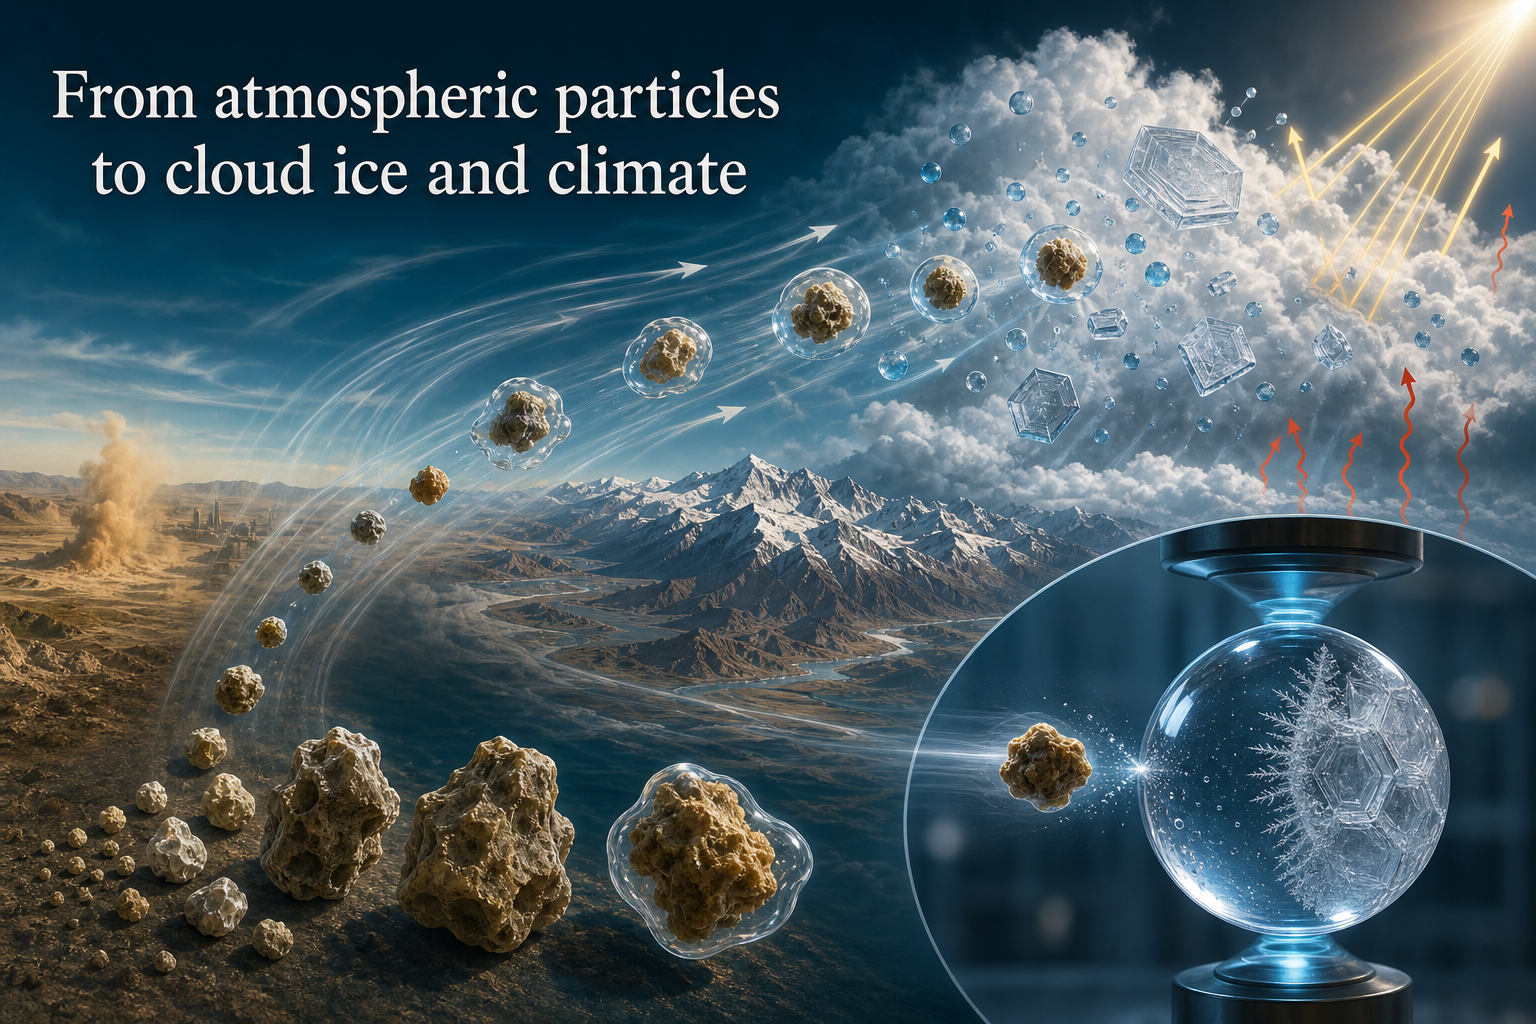
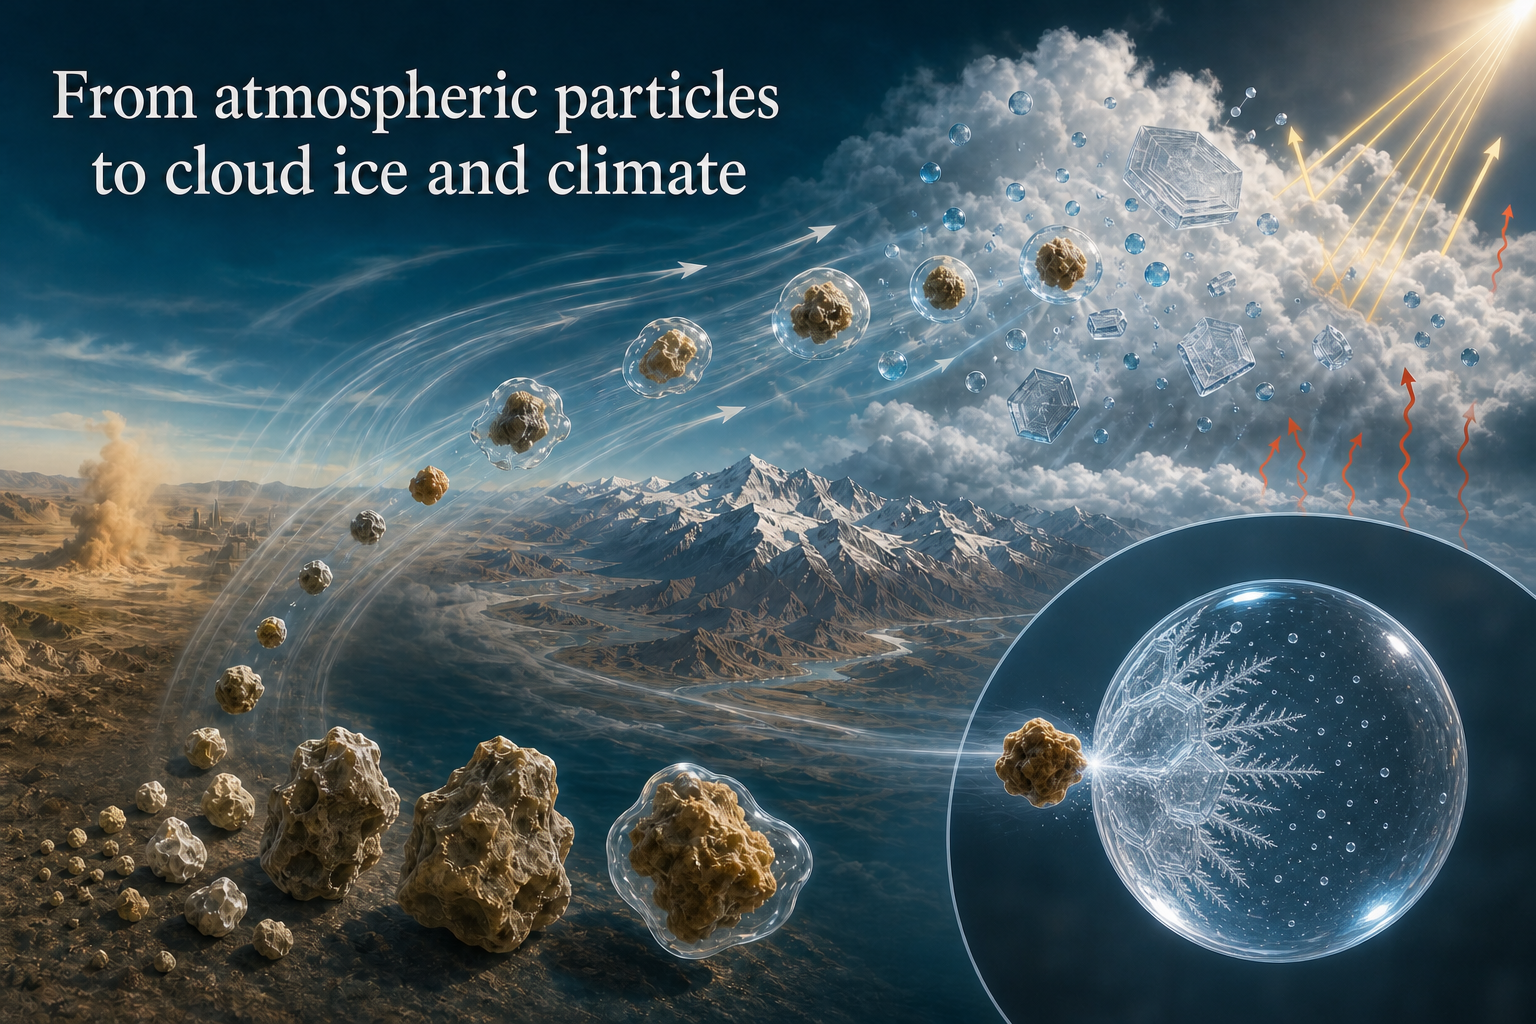
Refine overview graphic and publication metadata

diff --git a/app/page.tsx b/app/page.tsx
@@ -88,24 +88,24 @@ const papers = [
 ];
 
 const fullPublications = [
-  ['2026', 'Cold-stage system for Impact-initiated Contact freezing Experiments (C-ICE)', 'EGUsphere preprint', '10.5194/egusphere-2026-3946'],
-  ['2026', 'Effects of the Biosurfactant Rhamnolipid on the hygroscopicity and cloud condensation nuclei activity (CCN) of ammonium sulfate aerosols', 'Atmospheric Research', '10.1016/j.atmosres.2026.108950'],
-  ['2026', 'Relative Humidity Constrains the Saturated Oxidation Capacity of Sulfate Formation', 'Environmental Science & Technology Letters', '10.1021/acs.estlett.6c00077'],
-  ['2024', 'Decreased dust particles amplify the cloud cooling effect by regulating cloud ice formation over the Tibetan Plateau', 'Science Advances', '10.1126/sciadv.ado0885'],
-  ['2024', 'Observational Evidence of Brown Carbon Photobleaching in Urban Atmosphere at Molecular Level', 'Environmental Science & Technology Letters', '10.1021/acs.estlett.4c00647'],
-  ['2024', 'Particle phase state and aerosol liquid water greatly impact secondary aerosol formation: insights into phase transition and its role in haze events', 'Atmospheric Chemistry and Physics', '10.5194/acp-24-2399-2024'],
-  ['2023', 'Effects of heterogeneous reaction with NO₂ on ice nucleation activities of feldspar and Arizona Test Dust', 'Journal of Environmental Sciences', '10.1016/j.jes.2022.04.034'],
-  ['2023', 'Observational evidence for the non-suppression effect of atmospheric chemical modification on the ice nucleation activity of East Asian dust', 'Science of the Total Environment', '10.1016/j.scitotenv.2022.160708'],
-  ['2023', 'Secondary aerosol formation drives atmospheric particulate matter pollution over megacities (Beijing and Seoul) in East Asia', 'Atmospheric Environment', '10.1016/j.atmosenv.2023.119702'],
-  ['2022', 'Chemical characteristics and sources of organic aerosols across the Taiwan Strait', 'Atmospheric Pollution Research', '10.1016/j.apr.2021.101312'],
-  ['2022', 'Ice-nucleating particles from multiple aerosol sources in the urban environment of Beijing under mixed-phase cloud conditions', 'Atmospheric Chemistry and Physics', '10.5194/acp-22-7539-2022'],
-  ['2021', 'Atmospheric Humic-Like Substances (HULIS) Act as Ice Active Entities', 'Geophysical Research Letters', '10.1029/2021GL092443'],
-  ['2021', 'Ice Nucleating Particles in the Atmosphere—Progress and Challenges', 'Chinese Journal of Atmospheric Sciences', '10.3878/j.issn.1006-9895.2010.20121'],
-  ['2021', 'Ice-Nucleating Particle Concentrations and Sources in Rainwater Over the Third Pole, Tibetan Plateau', 'Journal of Geophysical Research: Atmospheres', '10.1029/2020JD033864'],
-  ['2021', 'Impact of aerosol–radiation interaction on new particle formation', 'Atmospheric Chemistry and Physics', '10.5194/acp-21-9995-2021'],
-  ['2021', 'Size-resolved atmospheric ice-nucleating particles during East Asian dust events', 'Atmospheric Chemistry and Physics', '10.5194/acp-21-3491-2021'],
-  ['2021', 'The particle phase state during the biomass burning events', 'Science of the Total Environment', '10.1016/j.scitotenv.2021.148035'],
-  ['2018', 'Development, Characterization, and Validation of a Cold Stage-Based Ice Nucleation Array (PKU-INA)', 'Atmosphere', '10.3390/atmos9090357'],
+  ['2026', 'Cold-stage system for Impact-initiated Contact freezing Experiments (C-ICE)', 'EGUsphere preprint', '10.5194/egusphere-2026-3946', 'Jingchuan Chen; Upasna B. Rai; Kyle A. McMillan; Ryan D. Davis; Margaret A. Tolbert; Sarah D. Brooks'],
+  ['2026', 'Effects of the Biosurfactant Rhamnolipid on the hygroscopicity and cloud condensation nuclei activity (CCN) of ammonium sulfate aerosols', 'Atmospheric Research', '10.1016/j.atmosres.2026.108950', 'Wenxu Fang; Zhijun Wu; Taomou Zong; Yanting Qiu; Xiangxinyue Meng; Jingchuan Chen; Zeyu Feng; Junrui Wang; Linghan Zeng; Zheng Chen; Zirui Zhang; Yu Xie; Song Guo; Maosheng Yao; Min Hu'],
+  ['2026', 'Relative Humidity Constrains the Saturated Oxidation Capacity of Sulfate Formation', 'Environmental Science & Technology Letters', '10.1021/acs.estlett.6c00077', 'Taomou Zong; Zhijun Wu; Ye Kuang; Mengren Li; Nan Xu; Shuya Hu; Yanhong Qin; Zhuofei Du; Jing Zheng; Dongjie Shang; Yujue Wang; Fangting Gu; Yu Wang; Tianyi Tan; Yuechen Liu; Kai Qiao; Xiao Li; Xin Fang; Yao Xiao; Rongzhi Tang; Jie Chen; Yao Bai; Weizhao Xu; Hui Wang; Tiantian Wang; Yishu Zhu; Zirui Zhang; Ruizhe Shen; Jingchuan Chen; Xiangxinyue Meng; Shiyi Chen; Huabin Dong; Song Guo; Min Hu'],
+  ['2024', 'Decreased dust particles amplify the cloud cooling effect by regulating cloud ice formation over the Tibetan Plateau', 'Science Advances', '10.1126/sciadv.ado0885', 'Jingchuan Chen; Jianzhong Xu; Zhijun Wu; Xiangxinyue Meng; Yan Yu; Paul Ginoux; Paul J. DeMott; Rui Xu; Lixiang Zhai; Yafei Yan; Chuanfeng Zhao; Shao-Meng Li; Tong Zhu; Min Hu'],
+  ['2024', 'Observational Evidence of Brown Carbon Photobleaching in Urban Atmosphere at Molecular Level', 'Environmental Science & Technology Letters', '10.1021/acs.estlett.4c00647', 'Yanting Qiu; Tao Qiu; Zhijun Wu; Yanna Liu; Wenxu Fang; Ruiqi Man; Yuechen Liu; Junrui Wang; Xiangxinyue Meng; Jingchuan Chen; Dapeng Liang; Song Guo; Min Hu'],
+  ['2024', 'Particle phase state and aerosol liquid water greatly impact secondary aerosol formation: insights into phase transition and its role in haze events', 'Atmospheric Chemistry and Physics', '10.5194/acp-24-2399-2024', 'Xiangxinyue Meng; Zhijun Wu; Jingchuan Chen; Yanting Qiu; Taomou Zong; Mijung Song; Jiyi Lee; Min Hu'],
+  ['2023', 'Effects of heterogeneous reaction with NO₂ on ice nucleation activities of feldspar and Arizona Test Dust', 'Journal of Environmental Sciences', '10.1016/j.jes.2022.04.034', 'Lanxiadi Chen; Chao Peng; Jingchuan Chen; Jie Chen; Wenjun Gu; Xiaohong Jia; Zhijun Wu; Qiyuan Wang; Mingjin Tang'],
+  ['2023', 'Observational evidence for the non-suppression effect of atmospheric chemical modification on the ice nucleation activity of East Asian dust', 'Science of the Total Environment', '10.1016/j.scitotenv.2022.160708', 'Jingchuan Chen; Zhijun Wu; Xiangxinyue Meng; Cuiqi Zhang; Jie Chen; Yanting Qiu; Li Chen; Xin Fang; Yuanyuan Wang; Yinxiao Zhang; Shiyi Chen; Jian Gao; Weijun Li; Min Hu'],
+  ['2023', 'Secondary aerosol formation drives atmospheric particulate matter pollution over megacities (Beijing and Seoul) in East Asia', 'Atmospheric Environment', '10.1016/j.atmosenv.2023.119702', 'Yanting Qiu; Zhijun Wu; Ruiqi Man; Taomou Zong; Yuechen Liu; Xiangxinyue Meng; Jingchuan Chen; Shiyi Chen; Suxia Yang; Bin Yuan; Mijung Song; Changhyuk Kim; Junyoung Ahn; Limin Zeng; Jiyi Lee; Min Hu'],
+  ['2022', 'Chemical characteristics and sources of organic aerosols across the Taiwan Strait', 'Atmospheric Pollution Research', '10.1016/j.apr.2021.101312', 'Nan Xu; Min Hu; Zirui Zhang; Xiao Li; Shuya Hu; Jingchuan Chen; Zijing Zhang; Rongzhi Tang; Limin Zeng; Feng Chen; Zhifan Jin; Fang Yang; Haowu Lin; Jinsheng Chen; Yanting Chen; Mengren Li; Ronghua Zheng; Chung-Te Lee; Sheng-Hsiang Wang; Chia-Wei Lee; Chung-Shin Yuan; Chang-Tang Chang; Ken-Hui Chang; Yuanhang Zhang'],
+  ['2022', 'Ice-nucleating particles from multiple aerosol sources in the urban environment of Beijing under mixed-phase cloud conditions', 'Atmospheric Chemistry and Physics', '10.5194/acp-22-7539-2022', 'Cuiqi Zhang; Zhijun Wu; Jingchuan Chen; Jie Chen; Lizi Tang; Wenfei Zhu; Xiangyu Pei; Shiyi Chen; Ping Tian; Song Guo; Limin Zeng; Min Hu; Zamin A. Kanji'],
+  ['2021', 'Atmospheric Humic-Like Substances (HULIS) Act as Ice Active Entities', 'Geophysical Research Letters', '10.1029/2021GL092443', 'Jingchuan Chen; Zhijun Wu; Xin Zhao; Yujing Wang; Jie Chen; Yanting Qiu; Taomou Zong; Haoxuan Chen; Beibei Wang; Peng Lin; Wei Liu; Song Guo; Maosheng Yao; Limin Zeng; Heike Wex; Xiaohong Liu; Min Hu; Shao-Meng Li'],
+  ['2021', 'Ice Nucleating Particles in the Atmosphere—Progress and Challenges', 'Chinese Journal of Atmospheric Sciences', '10.3878/j.issn.1006-9895.2010.20121', 'Zhijun Wu; Jie Chen; Jingchuan Chen; Wenjun Gu; Mingjin Tang; Dianping Ding; Yan Yin; Min Hu'],
+  ['2021', 'Ice-Nucleating Particle Concentrations and Sources in Rainwater Over the Third Pole, Tibetan Plateau', 'Journal of Geophysical Research: Atmospheres', '10.1029/2020JD033864', 'Jingchuan Chen; Zhijun Wu; Guangming Wu; Xiaodong Gong; Feng Wang; Jie Chen; Guoliang Shi; Min Hu; Zhiyuan Cong'],
+  ['2021', 'Impact of aerosol–radiation interaction on new particle formation', 'Atmospheric Chemistry and Physics', '10.5194/acp-21-9995-2021', 'Gang Zhao; Yishu Zhu; Zhijun Wu; Taomou Zong; Jingchuan Chen; Tianyi Tan; Haichao Wang; Xin Fang; Keding Lu; Chunsheng Zhao; Min Hu'],
+  ['2021', 'Size-resolved atmospheric ice-nucleating particles during East Asian dust events', 'Atmospheric Chemistry and Physics', '10.5194/acp-21-3491-2021', 'Jingchuan Chen; Zhijun Wu; Jie Chen; Naama Reicher; Xin Fang; Yinon Rudich; Min Hu'],
+  ['2021', 'The particle phase state during the biomass burning events', 'Science of the Total Environment', '10.1016/j.scitotenv.2021.148035', 'Yuechen Liu; Xiangxinyue Meng; Zhijun Wu; Dandan Huang; Hongli Wang; Jie Chen; Jingchuan Chen; Taomou Zong; Xin Fang; Tianyi Tan; Gang Zhao; Shiyi Chen; Liwu Zeng; Song Guo; Xiaofeng Huang; Lingyan He; Limin Zeng; Min Hu'],
+  ['2018', 'Development, Characterization, and Validation of a Cold Stage-Based Ice Nucleation Array (PKU-INA)', 'Atmosphere', '10.3390/atmos9090357', 'Jie Chen; Xiangyu Pei; Hong Wang; Jingchuan Chen; Yishu Zhu; Mingjin Tang; Zhijun Wu'],
 ];
 
 const news = [
@@ -205,9 +205,9 @@ export default function Home() {
           <details className="all-publications">
             <summary>{zh ? '发表论文完整列表' : 'Complete publication list'} <span>+</span></summary>
             <div className="full-paper-list">
-              {fullPublications.map(([year, title, journal, doi], index) => (
+              {fullPublications.map(([year, title, journal, doi, authors]) => (
                 <a href={`https://doi.org/${doi}`} target="_blank" rel="noreferrer" key={doi}>
-                  <span>{year}</span><div><b>{index === 0 ? title : title}</b><small>{journal}</small></div><ArrowUpRight size={15} />
+                  <span>{year}</span><div><b>{title}</b><p className="full-authors">{authors.split('; ').map((author, index) => <span key={`${doi}-${author}`}>{author === 'Jingchuan Chen' ? <strong>{author}</strong> : author}{index < authors.split('; ').length - 1 ? '; ' : ''}</span>)}</p><small>{journal}</small></div><ArrowUpRight size={15} />
                 </a>
               ))}
             </div>

diff --git a/app/globals.css b/app/globals.css
@@ -154,9 +154,9 @@ footer { display: flex; justify-content: space-between; gap: 20px; padding: 25px
   footer { flex-direction: column; }
 }
 
-.overview-figure { margin: 0; padding: 100px clamp(24px, 7vw, 112px); background: #0b2a35; color: white; }
-.overview-figure img { display: block; width: 100%; max-width: 1400px; margin: 0 auto; border: 1px solid #31515b; box-shadow: 0 28px 80px rgba(0,0,0,.22); }
-.overview-figure figcaption { display: grid; grid-template-columns: 180px minmax(0, 740px); gap: 28px; max-width: 1400px; margin: 24px auto 0; color: #b6cacc; font-size: 13px; line-height: 1.65; }
+.overview-figure { margin: 0; padding: 72px clamp(24px, 7vw, 112px); background: #0b2a35; color: white; }
+.overview-figure img { display: block; width: auto; max-width: min(100%, 1120px); max-height: 68vh; margin: 0 auto; border: 1px solid #31515b; box-shadow: 0 28px 80px rgba(0,0,0,.22); object-fit: contain; }
+.overview-figure figcaption { display: grid; grid-template-columns: 180px minmax(0, 740px); gap: 28px; max-width: 1120px; margin: 24px auto 0; color: #b6cacc; font-size: 13px; line-height: 1.65; }
 .overview-figure figcaption span { color: #d3a269; font-size: 11px; font-weight: 800; letter-spacing: .12em; text-transform: uppercase; }
 
 .publication-actions { display: flex; align-items: flex-start; justify-content: space-between; gap: 24px; margin-top: 36px; }
@@ -170,6 +170,9 @@ footer { display: flex; justify-content: space-between; gap: 20px; padding: 25px
 .full-paper-list a { display: grid; grid-template-columns: 62px minmax(0, 1fr) 20px; gap: 18px; align-items: start; padding: 18px 0; border-bottom: 1px solid #b8cbc8; }
 .full-paper-list a > span { color: #9b6738; font-size: 12px; font-weight: 800; }
 .full-paper-list b { display: block; color: #173b45; font-family: Georgia, serif; font-size: 16px; font-weight: 400; line-height: 1.42; }
+.full-paper-list .full-authors { margin: 8px 0 0; color: #536f75; font-size: 12px; line-height: 1.6; }
+.full-paper-list .full-authors span { color: inherit; font-size: inherit; font-weight: inherit; }
+.full-paper-list .full-authors strong { color: #173b45; font-weight: 900; }
 .full-paper-list small { display: block; margin-top: 6px; color: #5f777c; font-size: 12px; }
 
 @media (max-width: 900px) {
